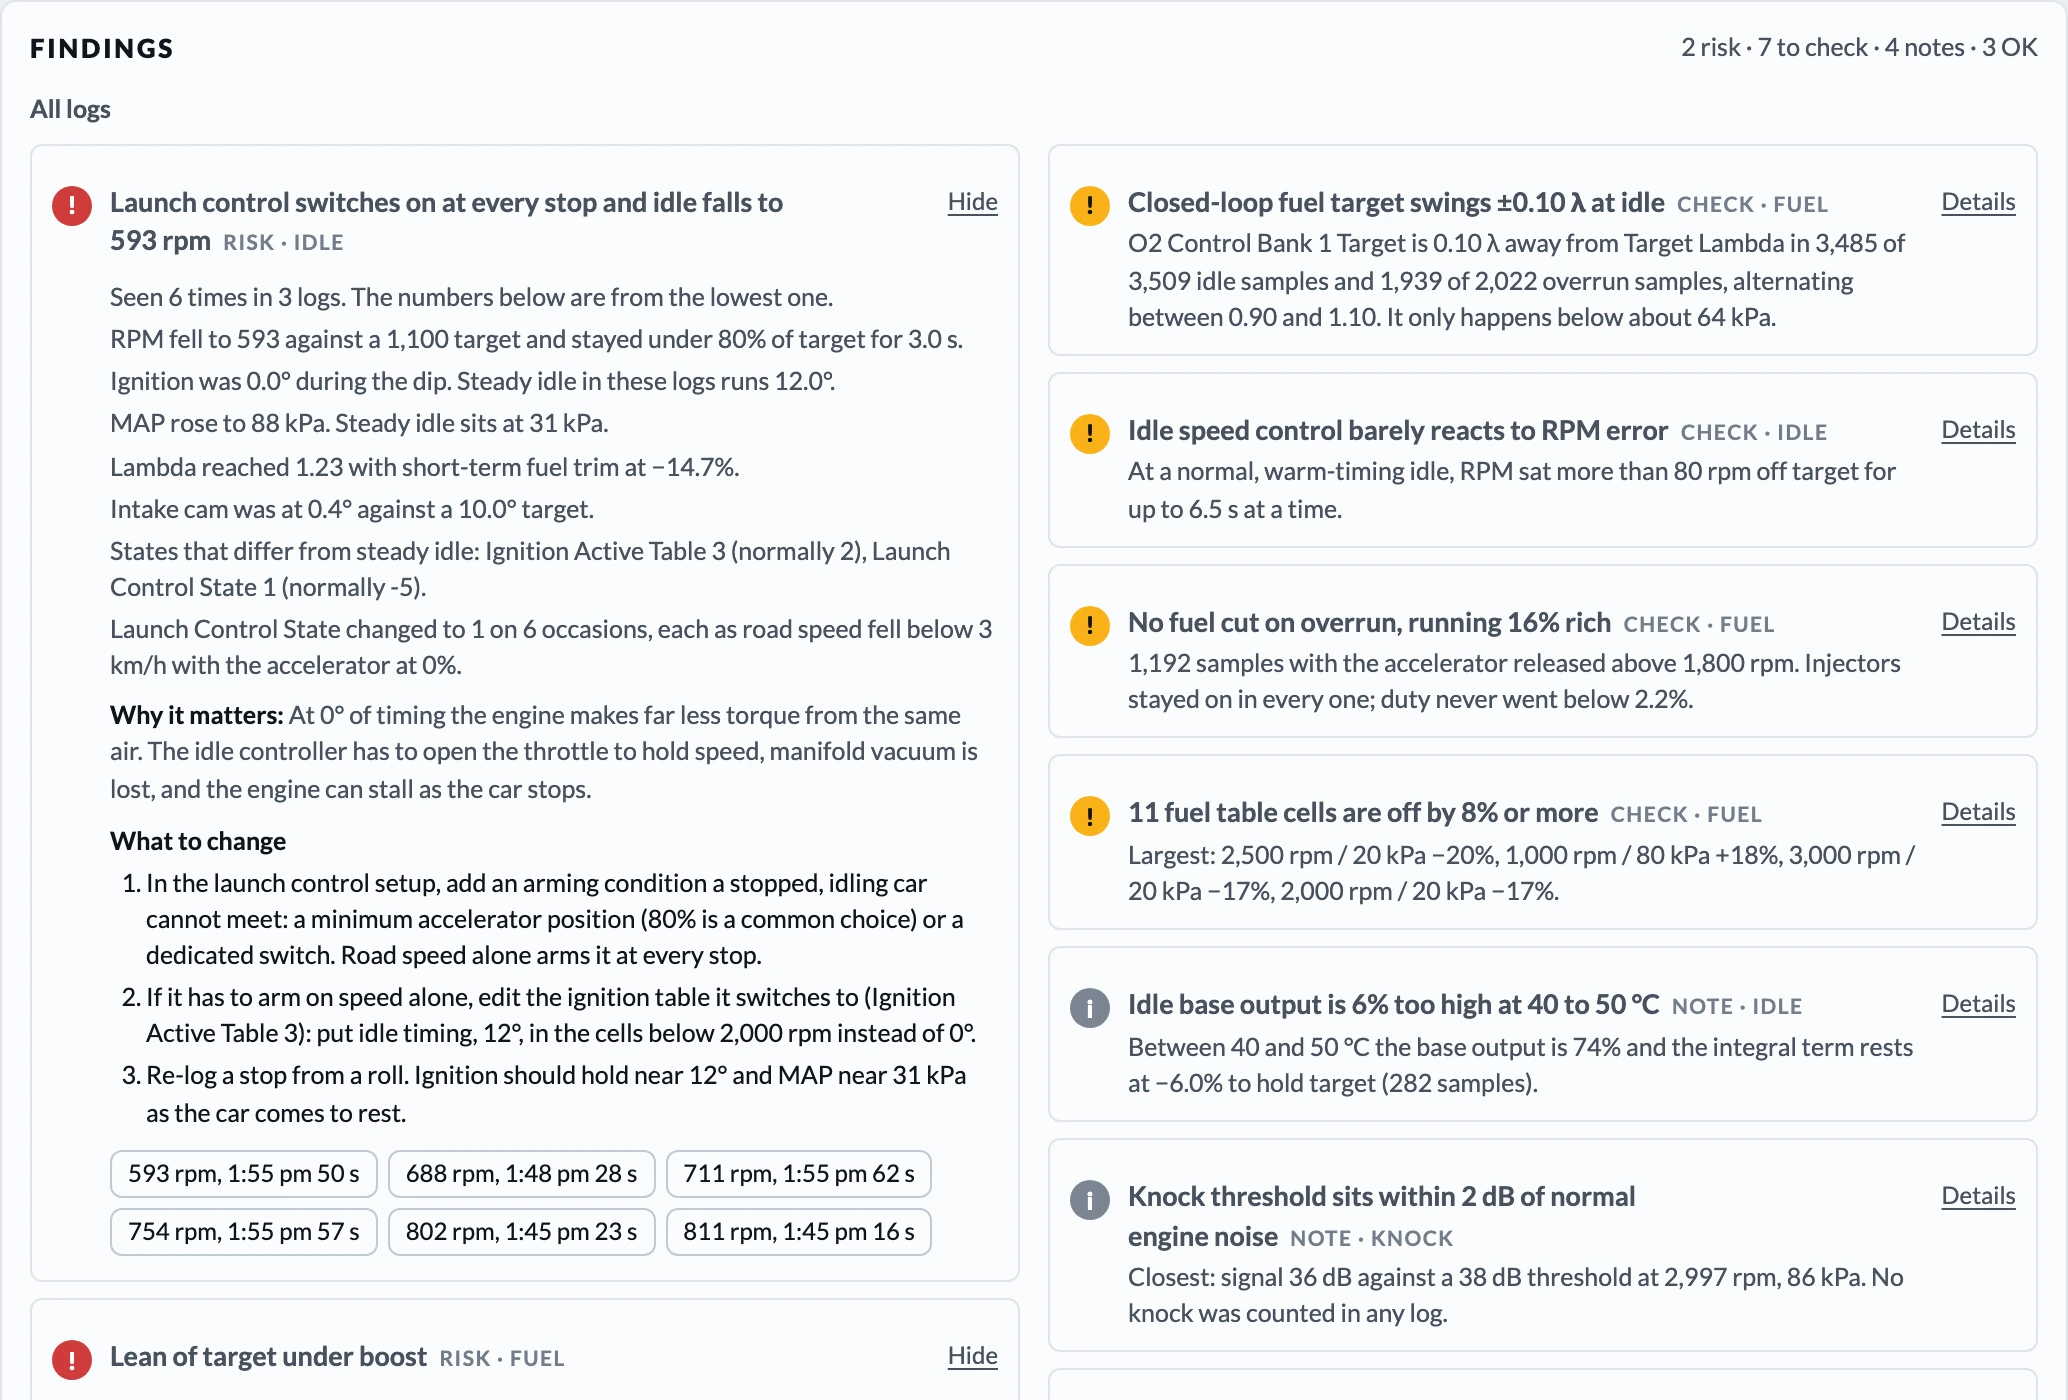
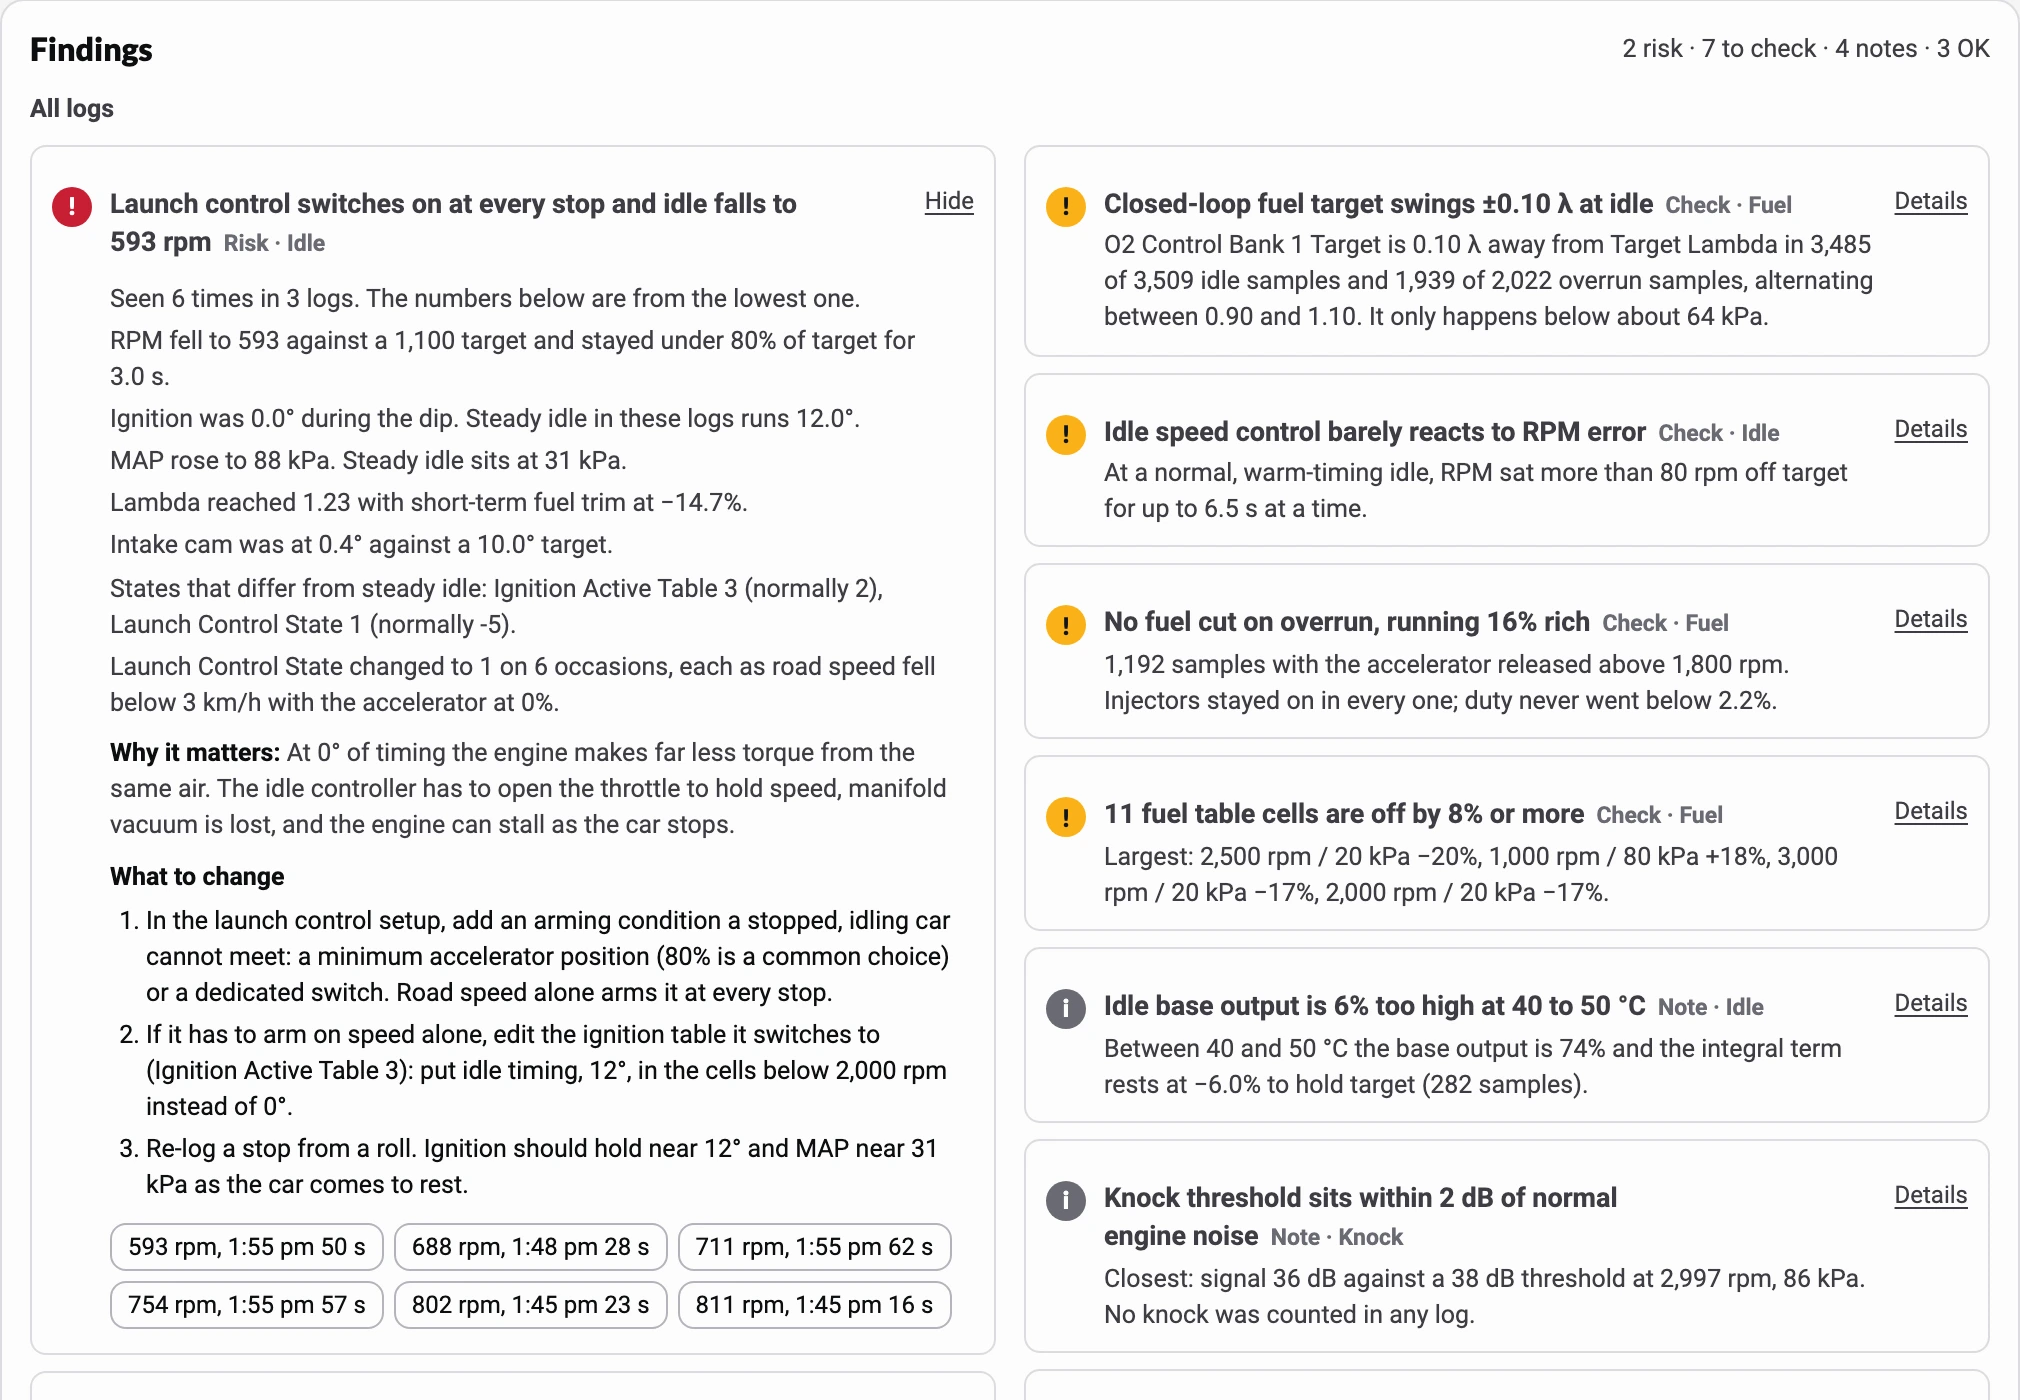
Website: screenshots of the restyled app; project notes

diff --git a/site/index.html b/site/index.html
@@ -85,7 +85,7 @@
             </div>
           </div>
           <picture class="hero-shot">
-            <source media="(max-width: 899px)" srcset="img/finding-boost.webp" width="495" height="362" />
+            <source media="(max-width: 899px)" srcset="img/finding-boost.webp" width="483" height="362" />
             <img
               src="img/hero.webp"
               width="1400"
@@ -106,10 +106,10 @@
           </div>
           <figure class="findings-shot reveal">
             <picture>
-              <source media="(max-width: 719px)" srcset="img/finding-fuel.webp" width="495" height="441" />
+              <source media="(max-width: 719px)" srcset="img/finding-fuel.webp" width="483" height="459" />
               <img
                 src="img/findings.webp"
-                width="1034"
+                width="1010"
                 height="700"
                 alt="Findings in Log Viewer, each with the readings it is based on, why it matters and numbered changes"
                 loading="lazy"
@@ -131,8 +131,8 @@
               <picture>
                 <img
                   src="img/power.webp"
-                  width="556"
-                  height="638"
+                  width="543"
+                  height="641"
                   alt="Estimated wheel power and torque against engine speed for three pulls"
                   loading="lazy"
                 />
@@ -149,8 +149,8 @@
               <picture>
                 <img
                   src="img/table.webp"
-                  width="464"
-                  height="638"
+                  width="453"
+                  height="641"
                   alt="Ignition table drawn in 3D, with the path of one pull across it"
                   loading="lazy"
                 />
@@ -164,7 +164,7 @@
               <picture class="frame">
                 <img
                   src="img/replay.webp"
-                  width="1004"
+                  width="980"
                   height="612"
                   alt="Replay of a pull: readouts at the playhead above traces of engine speed, pedal, manifold pressure, lambda, ignition and knock"
                   loading="lazy"

diff --git a/site/styles.css b/site/styles.css
@@ -102,7 +102,7 @@ figcaption{color:var(--body)}
 .findings-shot figcaption{margin-top:4px;font-size:.9375rem;font-weight:400;color:var(--muted)}
 
 /* charts: two panels side by side as in the app, then the replay across */
-.charts{display:grid;grid-template-columns:556fr 464fr;column-gap:16px;margin-top:48px}
+.charts{display:grid;grid-template-columns:543fr 453fr;column-gap:16px;margin-top:48px}
 /* picture and caption share the rows of the grid, so the two captions start level */
 .chart{display:grid;grid-row:span 2;grid-template-rows:subgrid}
 .chart img{width:100%;border-radius:9px}
@@ -142,16 +142,16 @@ footer{padding-block:36px 56px;border-top:1px solid var(--hairline);font-size:.9
   .hero{padding-block:40px 64px}
   .hero-grid{grid-template-columns:minmax(0,1fr);gap:44px}
   /* one finding stands in for the window */
-  .hero-shot{width:auto;max-width:519px;padding:12px;background:var(--surface-shot)}
+  .hero-shot{width:auto;max-width:507px;padding:12px;background:var(--surface-shot)}
   .charts{grid-template-columns:minmax(0,1fr);row-gap:48px}
   .chart,.chart.wide{display:block;margin-top:0}
-  .chart:not(.wide) img{max-width:556px}
+  .chart:not(.wide) img{max-width:543px}
   .chart.wide figcaption{margin-top:22px}
   .frame{padding:12px}
 }
 @media (max-width: 719px){
   /* one finding in place of the panel */
-  .findings-shot picture{max-width:519px;padding:12px;border:1px solid var(--hairline);border-radius:var(--r-box);background:var(--surface-shot)}
+  .findings-shot picture{max-width:507px;padding:12px;border:1px solid var(--hairline);border-radius:var(--r-box);background:var(--surface-shot)}
   .findings-shot img{border-radius:0;-webkit-mask-image:none;mask-image:none}
   .findings-shot figcaption{margin-top:14px}
 }

diff --git a/CLAUDE.md b/CLAUDE.md
@@ -41,10 +41,10 @@ See README.md for layout, commands and log import paths.
   The owner rejected the app's grey-blue and an orange accent on the page, did not want BMW's colours, and rejected Saira Condensed for headlines: Lato for display and Roboto for text are the owner's choice. The first version, with square corners and capitals everywhere, was too brutalist for the owner; it was softened the same day.
   The same system is saved as a Claude design system at https://claude.ai/artifact/9cvuybFUMqs3w78teUsVsb (tokens, brand book, fonts, cover; no components yet).
   Light is the default theme (owner call 2026-10-04, after seeing a dark-only page). The site follows the system and is light for every visitor; the dark theme stays defined for the app's dark mode.
-  The app has not been restyled to it yet: its screenshots on the site still show the old blue-grey panels.
+  The app follows it since 2026-10-04: the system's values sit under the app's existing CSS variable names (`--bg`, `--surface`, `--ink`, `--grid`, `--rule`; `--crit` is the redline), Lato sets titles and figures and Roboto the text (`@fontsource/roboto`), corners are 6, 8 and 12px, there are no shadows, panel titles and tags are sentence case, and the header's rule ends in the redline.
   The page describes only what has been checked: nothing about AirDrop or iPhone-specific import.
 - Replay: show on/off and state channels as rows on the timeline instead of line graphs, appearing on their own for any switch that changes during the pull. Being designed, not built.
-- App UI pass with `redesign-existing-projects`, 2026-10-04. Applied: hover, press and transition states on controls, sentence-case subheads (panel titles and tags stay in capitals), tinted shadows, `text-wrap: pretty` on prose, a car icon on the Vehicle button (Phosphor, as on the website), the 3D table growing to fill its panel, and a refused duplicate naming the file once.
+- App UI pass with `redesign-existing-projects`, 2026-10-04. Applied: hover, press and transition states on controls, sentence-case subheads, `text-wrap: pretty` on prose, a car icon on the Vehicle button (Phosphor, as on the website), the 3D table growing to fill its panel, and a refused duplicate naming the file once.
   Then, same day: unselected pulls lose their boxes and the text actions their underlines; an empty library shows one "Add your first log" panel in place of the charts (`.app.no-logs`, set in `renderLogs`); naming, saving and deleting a view moved into the Channels picker.
   Switch rows: design in `docs/superpowers/specs/2026-10-04-replay-switch-rows-design.md`, waiting for review. Not built.
 - Design work uses the taste skills in `.claude/skills` (from github.com/Leonxlnx/taste-skill, MIT): `design-taste-frontend` for the landing page, `redesign-existing-projects` for the app UI. The first says of itself that it is not for dashboards or dense product UI, so it does not apply to the app.
